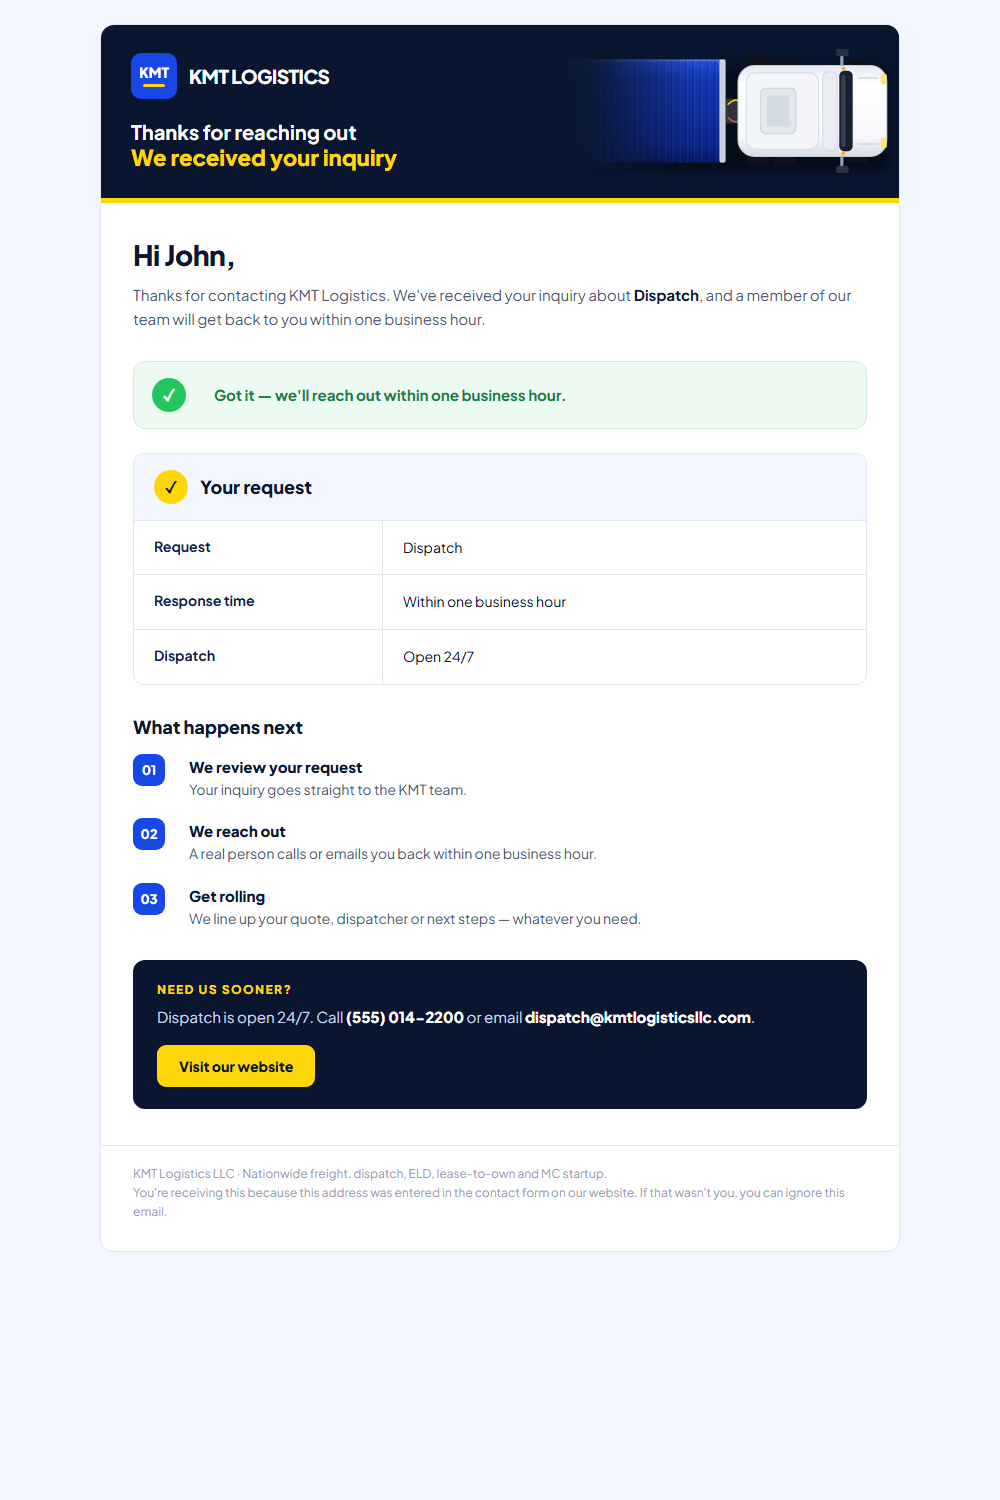
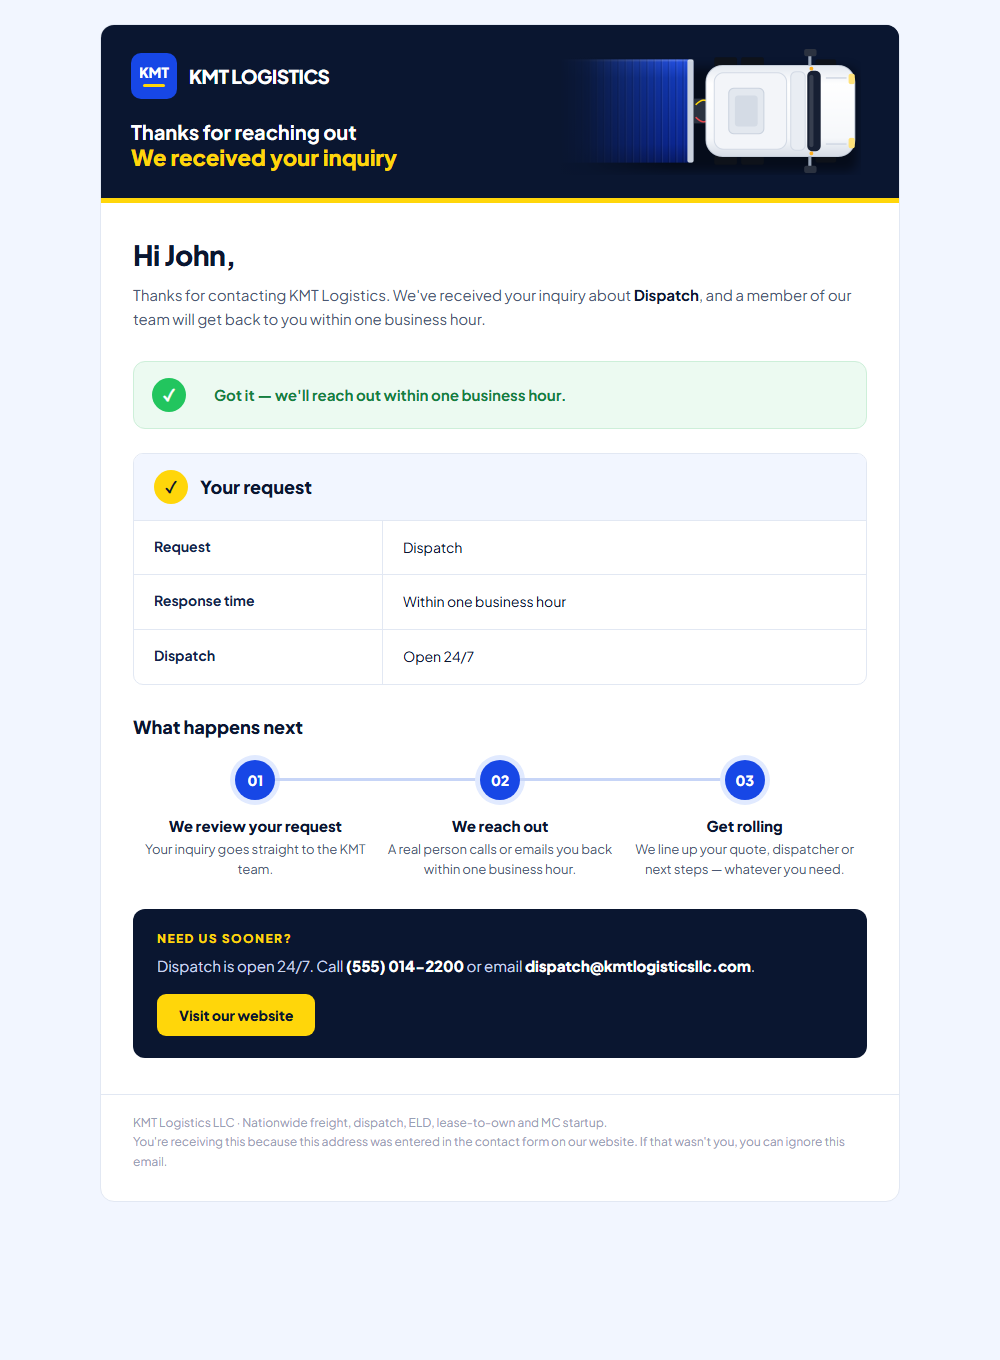
Real USDOT/MC numbers; milestone-style next steps in visitor email

diff --git a/api/_email.js b/api/_email.js
@@ -167,17 +167,36 @@ function inquiryText(d) {
    Deliberately does not echo the visitor's free-text fields (message, company, phone):
    anyone can type any address into the form, so this email must not carry text they chose. */
 
-function step(num, title, text, last) {
+// Horizontal milestone track: numbered circles joined by a line, text under each.
+// Built from table cells (no flexbox/positioning) so it holds up in Gmail and Outlook.
+function milestones(steps) {
+  const TRACK = "#C7D5F7";
+  const col = (100 / steps.length).toFixed(2) + "%";
+  const line = (show) => `<div style="height:3px;line-height:3px;font-size:0;background:${show ? TRACK : "transparent"};">&nbsp;</div>`;
+  const markers = steps.map((st, i) => `
+                <td width="${col}" valign="middle" style="padding:0;">
+                  <table role="presentation" width="100%" cellpadding="0" cellspacing="0" border="0">
+                    <tr>
+                      <td width="50%" valign="middle">${line(i > 0)}</td>
+                      <td width="40" valign="middle" style="width:40px;">
+                        <div style="width:40px;height:40px;line-height:40px;border-radius:20px;background:${BLUE};color:#FFFFFF;text-align:center;font-family:${FONT};font-size:14px;font-weight:800;box-shadow:0 0 0 5px #E1EAFF;">${st[0]}</div>
+                      </td>
+                      <td width="50%" valign="middle">${line(i < steps.length - 1)}</td>
+                    </tr>
+                  </table>
+                </td>`).join("");
+  const labels = steps.map((st) => `
+                <td width="${col}" valign="top" align="center" style="padding:16px 8px 0;font-family:${FONT};text-align:center;">
+                  <div style="font-size:15px;font-weight:800;line-height:1.3;color:${NAVY};">${esc(st[1])}</div>
+                  <div style="margin-top:5px;font-size:13px;line-height:1.5;color:${INK};">${esc(st[2])}</div>
+                </td>`).join("");
   return `
-              <tr>
-                <td width="44" valign="top" style="padding:0 0 ${last ? 0 : 18}px;">
-                  <div style="width:32px;height:32px;line-height:32px;border-radius:9px;background:${BLUE};color:#FFFFFF;text-align:center;font-family:${FONT};font-size:13px;font-weight:800;">${num}</div>
-                </td>
-                <td valign="top" style="padding:3px 0 ${last ? 0 : 18}px 12px;font-family:${FONT};">
-                  <div style="font-size:15px;font-weight:800;color:${NAVY};">${esc(title)}</div>
-                  <div style="margin-top:3px;font-size:14px;line-height:1.55;color:${INK};">${esc(text)}</div>
-                </td>
-              </tr>`;
+            <table role="presentation" width="100%" cellpadding="0" cellspacing="0" border="0" style="table-layout:fixed;">
+              <tr>${markers}
+              </tr>
+              <tr>${labels}
+              </tr>
+            </table>`;
 }
 
 function visitorEmail(d, siteUrl) {
@@ -229,9 +248,11 @@ function visitorEmail(d, siteUrl) {
         <!-- What happens next -->
         <tr>
           <td style="padding:30px 32px 0;">
-            <div style="font-family:${FONT};font-size:18px;font-weight:800;color:${NAVY};margin-bottom:16px;">What happens next</div>
-            <table role="presentation" width="100%" cellpadding="0" cellspacing="0" border="0">${step("01", "We review your request", "Your inquiry goes straight to the KMT team.")}${step("02", "We reach out", "A real person calls or emails you back within one business hour.")}${step("03", "Get rolling", "We line up your quote, dispatcher or next steps — whatever you need.", true)}
-            </table>
+            <div style="font-family:${FONT};font-size:18px;font-weight:800;color:${NAVY};margin-bottom:22px;">What happens next</div>${milestones([
+              ["01", "We review your request", "Your inquiry goes straight to the KMT team."],
+              ["02", "We reach out", "A real person calls or emails you back within one business hour."],
+              ["03", "Get rolling", "We line up your quote, dispatcher or next steps — whatever you need."]
+            ])}
           </td>
         </tr>
 

diff --git a/public/dispatch.html b/public/dispatch.html
@@ -149,7 +149,7 @@
         <span class="logo__name">KMT Logistics LLC</span>
       </div>
       <p>Nationwide freight carrier with dispatch, ELD, lease-to-own and MC startup services for owner-operators.</p>
-      <span class="site-footer__ids">MC 000000 · USDOT 0000000</span>
+      <span class="site-footer__ids">USDOT 9352031 · MC 62320826</span>
     </div>
     <div class="site-footer__col">
       <span class="site-footer__heading">Services</span>

diff --git a/public/eld.html b/public/eld.html
@@ -149,7 +149,7 @@
         <span class="logo__name">KMT Logistics LLC</span>
       </div>
       <p>Nationwide freight carrier with dispatch, ELD, lease-to-own and MC startup services for owner-operators.</p>
-      <span class="site-footer__ids">MC 000000 · USDOT 0000000</span>
+      <span class="site-footer__ids">USDOT 9352031 · MC 62320826</span>
     </div>
     <div class="site-footer__col">
       <span class="site-footer__heading">Services</span>

diff --git a/public/freight.html b/public/freight.html
@@ -149,7 +149,7 @@
         <span class="logo__name">KMT Logistics LLC</span>
       </div>
       <p>Nationwide freight carrier with dispatch, ELD, lease-to-own and MC startup services for owner-operators.</p>
-      <span class="site-footer__ids">MC 000000 · USDOT 0000000</span>
+      <span class="site-footer__ids">USDOT 9352031 · MC 62320826</span>
     </div>
     <div class="site-footer__col">
       <span class="site-footer__heading">Services</span>

diff --git a/public/index.html b/public/index.html
@@ -420,7 +420,7 @@
         <span class="logo__name">KMT Logistics LLC</span>
       </div>
       <p>Nationwide freight carrier with dispatch, ELD, lease-to-own and MC startup services for owner-operators.</p>
-      <span class="site-footer__ids">MC 000000 · USDOT 0000000</span>
+      <span class="site-footer__ids">USDOT 9352031 · MC 62320826</span>
     </div>
     <div class="site-footer__col">
       <span class="site-footer__heading">Services</span>

diff --git a/public/lease-to-own.html b/public/lease-to-own.html
@@ -149,7 +149,7 @@
         <span class="logo__name">KMT Logistics LLC</span>
       </div>
       <p>Nationwide freight carrier with dispatch, ELD, lease-to-own and MC startup services for owner-operators.</p>
-      <span class="site-footer__ids">MC 000000 · USDOT 0000000</span>
+      <span class="site-footer__ids">USDOT 9352031 · MC 62320826</span>
     </div>
     <div class="site-footer__col">
       <span class="site-footer__heading">Services</span>

diff --git a/public/mc-startup.html b/public/mc-startup.html
@@ -149,7 +149,7 @@
         <span class="logo__name">KMT Logistics LLC</span>
       </div>
       <p>Nationwide freight carrier with dispatch, ELD, lease-to-own and MC startup services for owner-operators.</p>
-      <span class="site-footer__ids">MC 000000 · USDOT 0000000</span>
+      <span class="site-footer__ids">USDOT 9352031 · MC 62320826</span>
     </div>
     <div class="site-footer__col">
       <span class="site-footer__heading">Services</span>

diff --git a/README.md b/README.md
@@ -38,7 +38,7 @@ npx serve public
 ## Before going live
 
 1. **Contact details:** replace the placeholder phone `(555) 014-2200` / `tel:5550142200`,
-   `info@kmtlogisticsllc.com`, and `MC 000000 · USDOT 0000000` in `public/index.html`.
+   `info@kmtlogisticsllc.com` in `public/index.html`.
 2. **Contact form:** the form posts to `/api/contact`, which sends a branded email through
    Resend (free: 3,000 emails/month). Hosting must be Vercel (the function doesn't run on Netlify
    or GitHub Pages). In Vercel → Project → Settings → Environment Variables, add:
